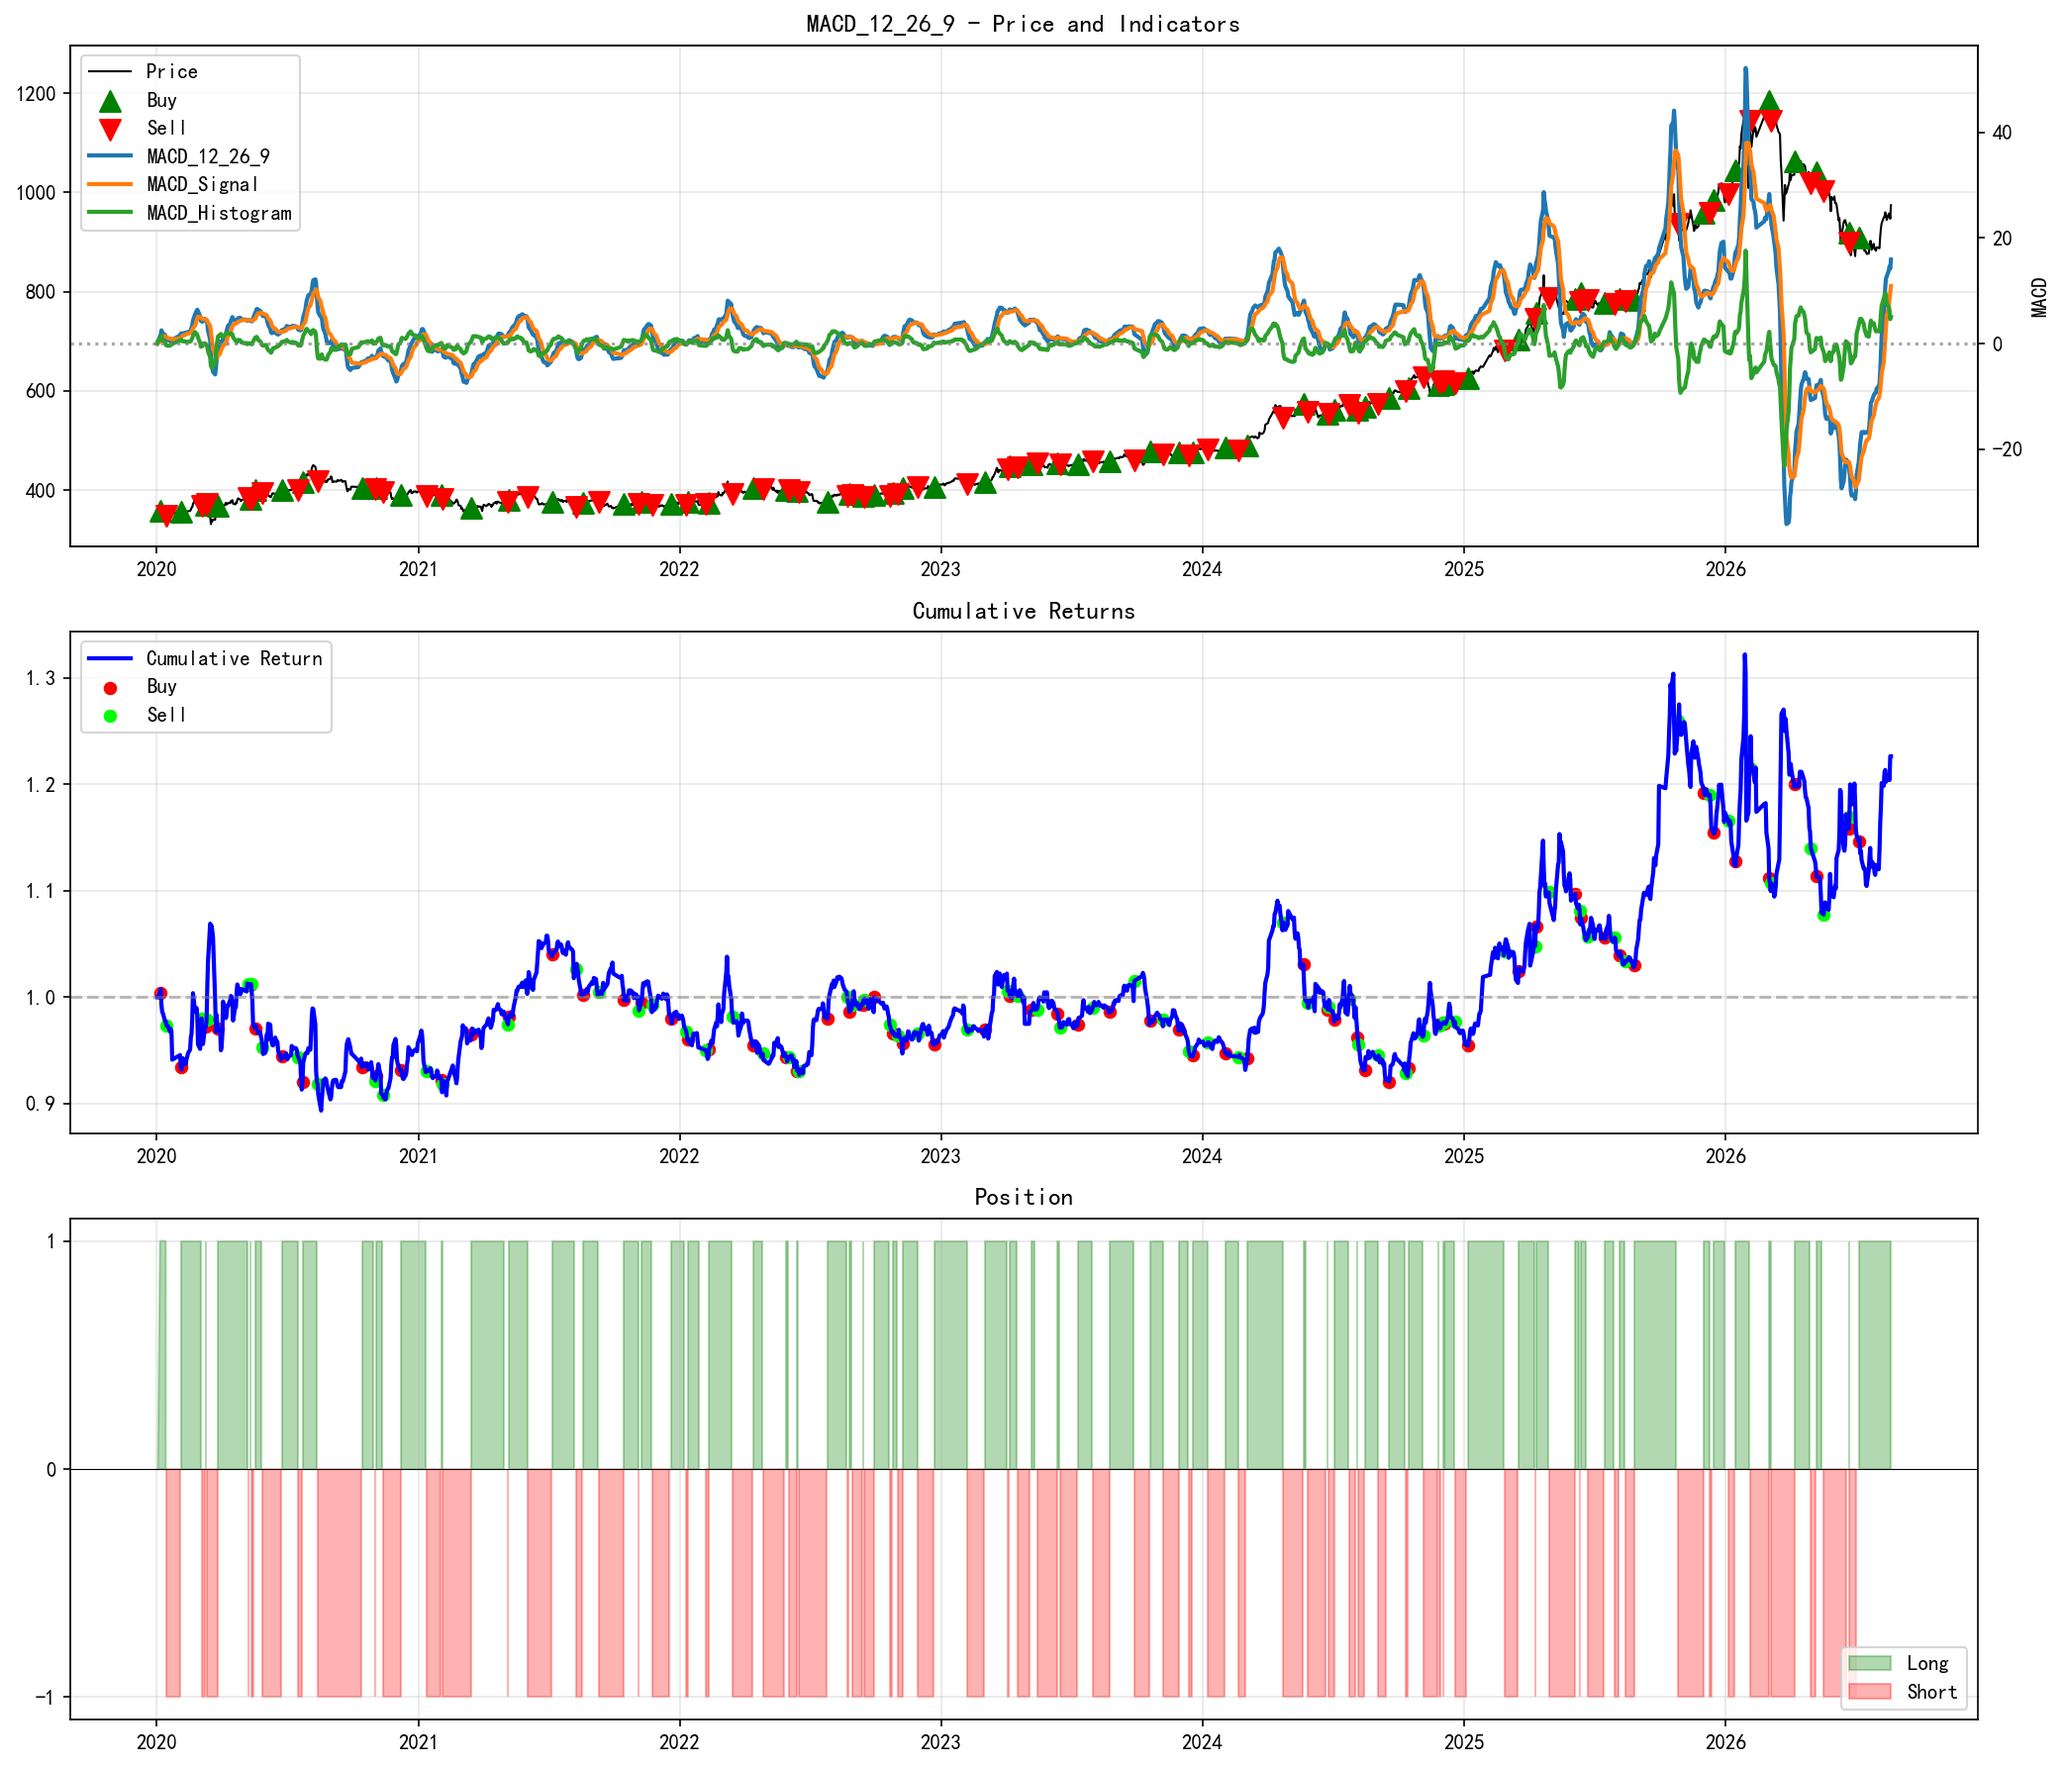
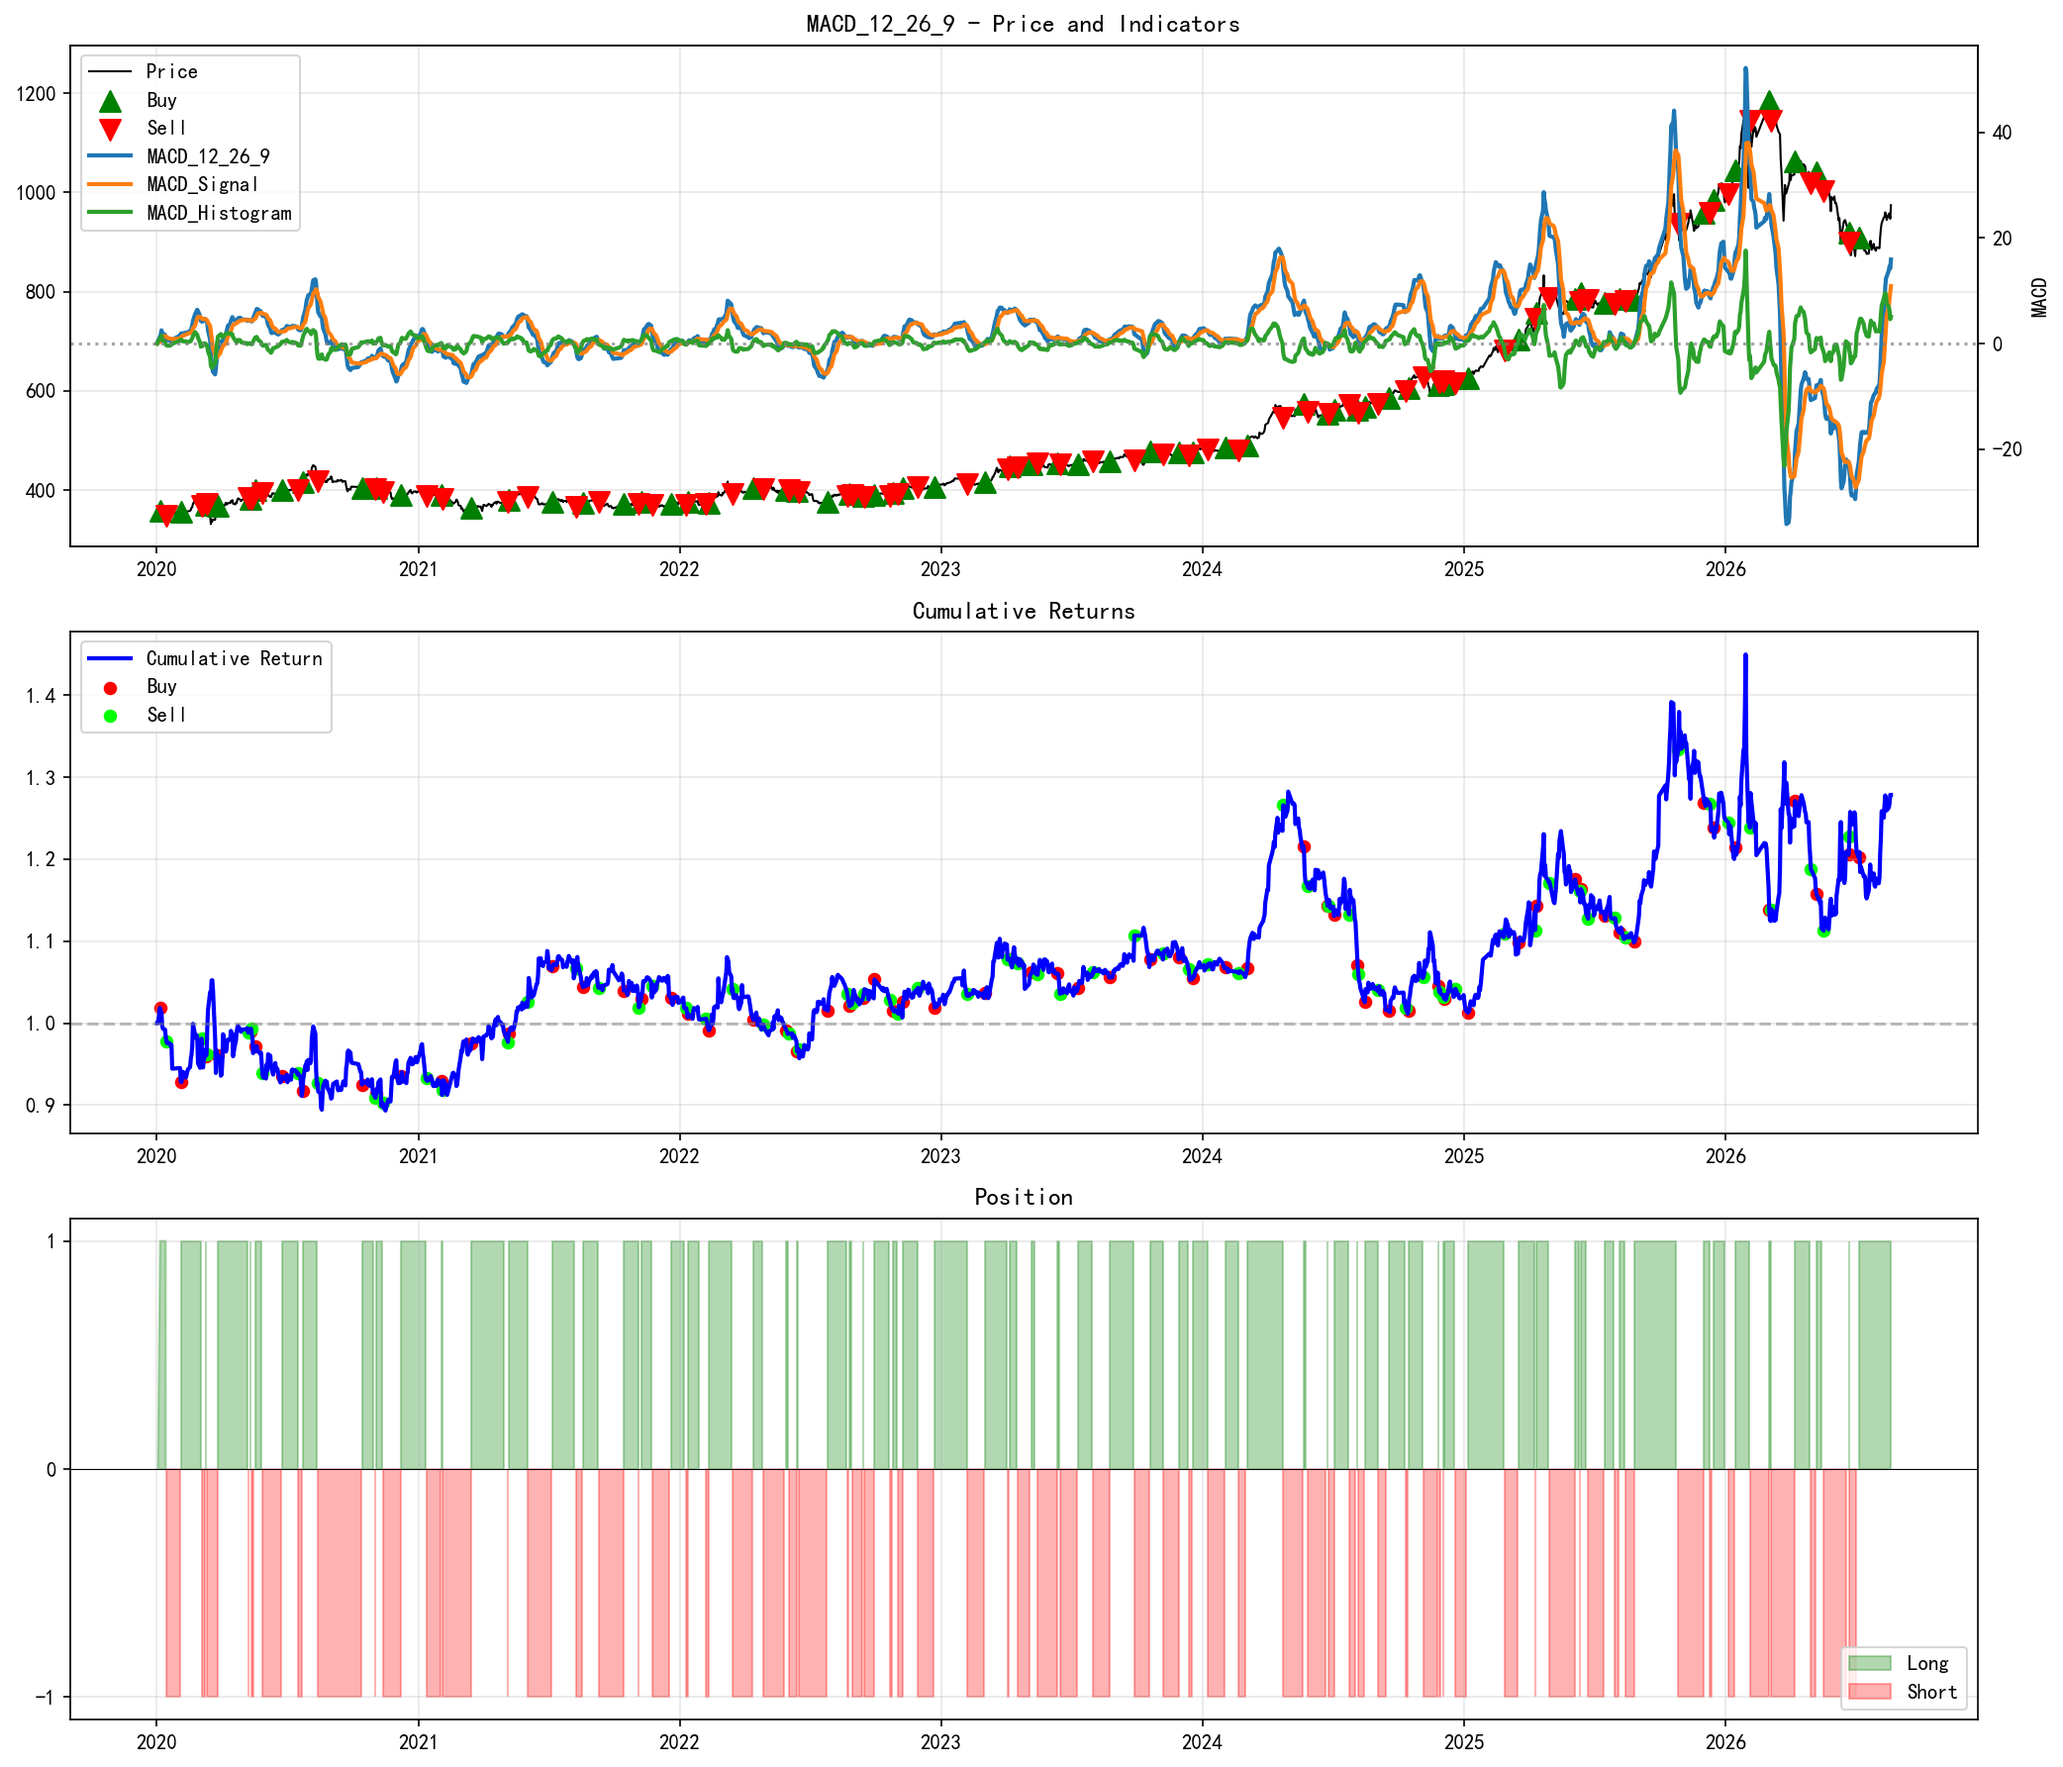
docs: sync strategy results after backtest fixes

Changed region(s): [[0.0624, 0.4622, 0.8109, 0.6471], [0.8109, 0.4006, 0.9357, 0.5238]]

diff --git a/project-quant-trading.html b/project-quant-trading.html
@@ -59,7 +59,7 @@
           <div class="stat-label"><span data-lang="cn">回测周期</span><span data-lang="en">Backtest Period</span></div>
         </div>
         <div class="stat-card">
-          <div class="stat-number">157<span style="font-size:1.2rem">%</span></div>
+          <div class="stat-number">158<span style="font-size:1.2rem">%</span></div>
           <div class="stat-label"><span data-lang="cn">最高累积收益</span><span data-lang="en">Best Cumulative Return</span></div>
         </div>
       </div>
@@ -123,93 +123,93 @@
           <tbody>
             <tr>
               <td><strong>TMA (10/30/90)</strong></td>
-              <td class="highlight">156.75%</td>
-              <td class="highlight">15.28%</td>
-              <td class="negative">-25.20%</td>
+              <td class="highlight">158.30%</td>
+              <td class="highlight">15.39%</td>
+              <td class="negative">-25.73%</td>
               <td>10</td>
               <td>50.00%</td>
-              <td>15.96%</td>
-            </tr>
-            <tr>
-              <td><strong>TMA (5/20/60)</strong></td>
-              <td class="highlight">138.83%</td>
-              <td class="highlight">14.03%</td>
-              <td class="negative">-22.07%</td>
-              <td>14</td>
-              <td>42.86%</td>
-              <td>10.85%</td>
+              <td>16.12%</td>
             </tr>
             <tr>
               <td><strong>EWMA Long-Only</strong></td>
-              <td class="highlight">126.11%</td>
-              <td class="highlight">13.09%</td>
-              <td class="negative">-17.27%</td>
+              <td class="highlight">136.72%</td>
+              <td class="highlight">13.88%</td>
+              <td class="negative">-14.82%</td>
               <td>90</td>
-              <td>46.67%</td>
-              <td>1.02%</td>
+              <td>48.89%</td>
+              <td>1.07%</td>
             </tr>
             <tr>
-              <td><strong>Donchian (20)</strong></td>
-              <td class="highlight">83.43%</td>
-              <td class="highlight">9.58%</td>
-              <td class="negative">-23.54%</td>
-              <td>23</td>
-              <td>56.52%</td>
-              <td>3.05%</td>
+              <td><strong>TMA (5/20/60)</strong></td>
+              <td class="highlight">135.95%</td>
+              <td class="highlight">13.82%</td>
+              <td class="negative">-25.85%</td>
+              <td>14</td>
+              <td>42.86%</td>
+              <td>10.77%</td>
             </tr>
             <tr>
               <td><strong>EWMA Long-Short</strong></td>
-              <td class="highlight">77.98%</td>
-              <td class="highlight">9.08%</td>
-              <td class="negative">-19.57%</td>
+              <td class="highlight">92.86%</td>
+              <td class="highlight">10.41%</td>
+              <td class="negative">-19.29%</td>
               <td>180</td>
-              <td>37.22%</td>
-              <td>0.39%</td>
+              <td>37.78%</td>
+              <td>0.44%</td>
             </tr>
             <tr>
               <td><strong>Donchian (50)</strong></td>
-              <td class="highlight">69.56%</td>
-              <td class="highlight">8.29%</td>
-              <td class="negative">-29.48%</td>
+              <td class="highlight">80.71%</td>
+              <td class="highlight">9.33%</td>
+              <td class="negative">-27.76%</td>
               <td>12</td>
               <td>50.00%</td>
-              <td>7.23%</td>
+              <td>8.07%</td>
+            </tr>
+            <tr>
+              <td><strong>Donchian (20)</strong></td>
+              <td class="highlight">74.01%</td>
+              <td class="highlight">8.71%</td>
+              <td class="negative">-22.67%</td>
+              <td>23</td>
+              <td>47.83%</td>
+              <td>2.88%</td>
             </tr>
             <tr>
               <td><strong>MACD</strong></td>
-              <td class="highlight">22.65%</td>
-              <td class="highlight">3.13%</td>
-              <td class="negative">-18.48%</td>
+              <td class="highlight">27.85%</td>
+              <td class="highlight">3.77%</td>
+              <td class="negative">-23.24%</td>
               <td>135</td>
-              <td>32.59%</td>
-              <td>0.21%</td>
+              <td>37.78%</td>
+              <td>0.26%</td>
             </tr>
             <tr>
               <td><strong>RSI</strong></td>
-              <td class="negative">-38.34%</td>
-              <td class="negative">-7.03%</td>
-              <td class="negative">-60.84%</td>
+              <td class="negative">-37.70%</td>
+              <td class="negative">-6.89%</td>
+              <td class="negative">-62.42%</td>
               <td>11</td>
               <td>45.45%</td>
-              <td>-6.17%</td>
+              <td>-5.59%</td>
             </tr>
             <tr>
               <td><strong>Bollinger (20, 2.0)</strong></td>
-              <td class="negative">-47.89%</td>
-              <td class="negative">-9.36%</td>
-              <td class="negative">-59.37%</td>
+              <td class="negative">-46.10%</td>
+              <td class="negative">-8.90%</td>
+              <td class="negative">-58.84%</td>
               <td>28</td>
-              <td>50.00%</td>
-              <td>-2.29%</td>
+              <td>53.57%</td>
+              <td>-2.04%</td>
             </tr>
             <tr>
               <td><strong>Bollinger (20, 1.5)</strong></td>
-              <td class="negative">-66.81%</td>
-              <td class="negative">-15.32%</td>
-              <td class="negative">-70.34%</td>
+              <td class="negative">-64.45%</td>
+              <td class="negative">-14.44%</td>
+              <td class="negative">-68.41%</td>
               <td>36</td>
-              <td>41.67%</td>
-              <td>-3.10%</td>
+              <td>52.78%</td>
+              <td>-2.79%</td>
             </tr>
           </tbody>
         </table>
@@ -229,43 +229,43 @@
       <div class="gallery">
         <div class="gallery-item fade-in">
           <img src="assets/plots/TMA_5_20_60.png" alt="TMA 5/20/60" loading="lazy">
-          <div class="gallery-caption">TMA (5/20/60) — <span data-lang="cn">累积收益 138.83%</span><span data-lang="en">Cumulative Return 138.83%</span></div>
+          <div class="gallery-caption">TMA (5/20/60) — <span data-lang="cn">累积收益 135.95%</span><span data-lang="en">Cumulative Return 135.95%</span></div>
         </div>
         <div class="gallery-item fade-in">
           <img src="assets/plots/TMA_10_30_90.png" alt="TMA 10/30/90" loading="lazy">
-          <div class="gallery-caption">TMA (10/30/90) — <span data-lang="cn">累积收益 156.75%</span><span data-lang="en">Cumulative Return 156.75%</span></div>
+          <div class="gallery-caption">TMA (10/30/90) — <span data-lang="cn">累积收益 158.30%</span><span data-lang="en">Cumulative Return 158.30%</span></div>
         </div>
         <div class="gallery-item fade-in">
           <img src="assets/plots/EWMA_LONG_ONLY_30.png" alt="EWMA Long-Only" loading="lazy">
-          <div class="gallery-caption">EWMA Long-Only — <span data-lang="cn">累积收益 126.11%</span><span data-lang="en">Cumulative Return 126.11%</span></div>
+          <div class="gallery-caption">EWMA Long-Only — <span data-lang="cn">累积收益 136.72%</span><span data-lang="en">Cumulative Return 136.72%</span></div>
         </div>
         <div class="gallery-item fade-in">
           <img src="assets/plots/DONCHIAN_20.png" alt="Donchian 20" loading="lazy">
-          <div class="gallery-caption">Donchian (20) — <span data-lang="cn">累积收益 83.43%</span><span data-lang="en">Cumulative Return 83.43%</span></div>
+          <div class="gallery-caption">Donchian (20) — <span data-lang="cn">累积收益 74.01%</span><span data-lang="en">Cumulative Return 74.01%</span></div>
         </div>
         <div class="gallery-item fade-in">
           <img src="assets/plots/DONCHIAN_50.png" alt="Donchian 50" loading="lazy">
-          <div class="gallery-caption">Donchian (50) — <span data-lang="cn">累积收益 69.56%</span><span data-lang="en">Cumulative Return 69.56%</span></div>
+          <div class="gallery-caption">Donchian (50) — <span data-lang="cn">累积收益 80.71%</span><span data-lang="en">Cumulative Return 80.71%</span></div>
         </div>
         <div class="gallery-item fade-in">
           <img src="assets/plots/EWMA_30.png" alt="EWMA Long-Short" loading="lazy">
-          <div class="gallery-caption">EWMA Long-Short — <span data-lang="cn">累积收益 77.98%</span><span data-lang="en">Cumulative Return 77.98%</span></div>
+          <div class="gallery-caption">EWMA Long-Short — <span data-lang="cn">累积收益 92.86%</span><span data-lang="en">Cumulative Return 92.86%</span></div>
         </div>
         <div class="gallery-item fade-in">
           <img src="assets/plots/MACD_12_26_9.png" alt="MACD" loading="lazy">
-          <div class="gallery-caption">MACD (12/26/9) — <span data-lang="cn">累积收益 22.65%</span><span data-lang="en">Cumulative Return 22.65%</span></div>
+          <div class="gallery-caption">MACD (12/26/9) — <span data-lang="cn">累积收益 27.85%</span><span data-lang="en">Cumulative Return 27.85%</span></div>
         </div>
         <div class="gallery-item fade-in">
           <img src="assets/plots/RSI_14_30_70.png" alt="RSI" loading="lazy">
-          <div class="gallery-caption">RSI (14, 30/70) — <span data-lang="cn">累积收益 -38.34%</span><span data-lang="en">Cumulative Return -38.34%</span></div>
+          <div class="gallery-caption">RSI (14, 30/70) — <span data-lang="cn">累积收益 -37.70%</span><span data-lang="en">Cumulative Return -37.70%</span></div>
         </div>
         <div class="gallery-item fade-in">
           <img src="assets/plots/BOLLINGER_20_2.png" alt="Bollinger 2.0" loading="lazy">
-          <div class="gallery-caption">Bollinger (20, 2.0) — <span data-lang="cn">累积收益 -47.89%</span><span data-lang="en">Cumulative Return -47.89%</span></div>
+          <div class="gallery-caption">Bollinger (20, 2.0) — <span data-lang="cn">累积收益 -46.10%</span><span data-lang="en">Cumulative Return -46.10%</span></div>
         </div>
         <div class="gallery-item fade-in">
           <img src="assets/plots/BOLLINGER_20_1.5.png" alt="Bollinger 1.5" loading="lazy">
-          <div class="gallery-caption">Bollinger (20, 1.5) — <span data-lang="cn">累积收益 -66.81%</span><span data-lang="en">Cumulative Return -66.81%</span></div>
+          <div class="gallery-caption">Bollinger (20, 1.5) — <span data-lang="cn">累积收益 -64.45%</span><span data-lang="en">Cumulative Return -64.45%</span></div>
         </div>
       </div>
     </div>
